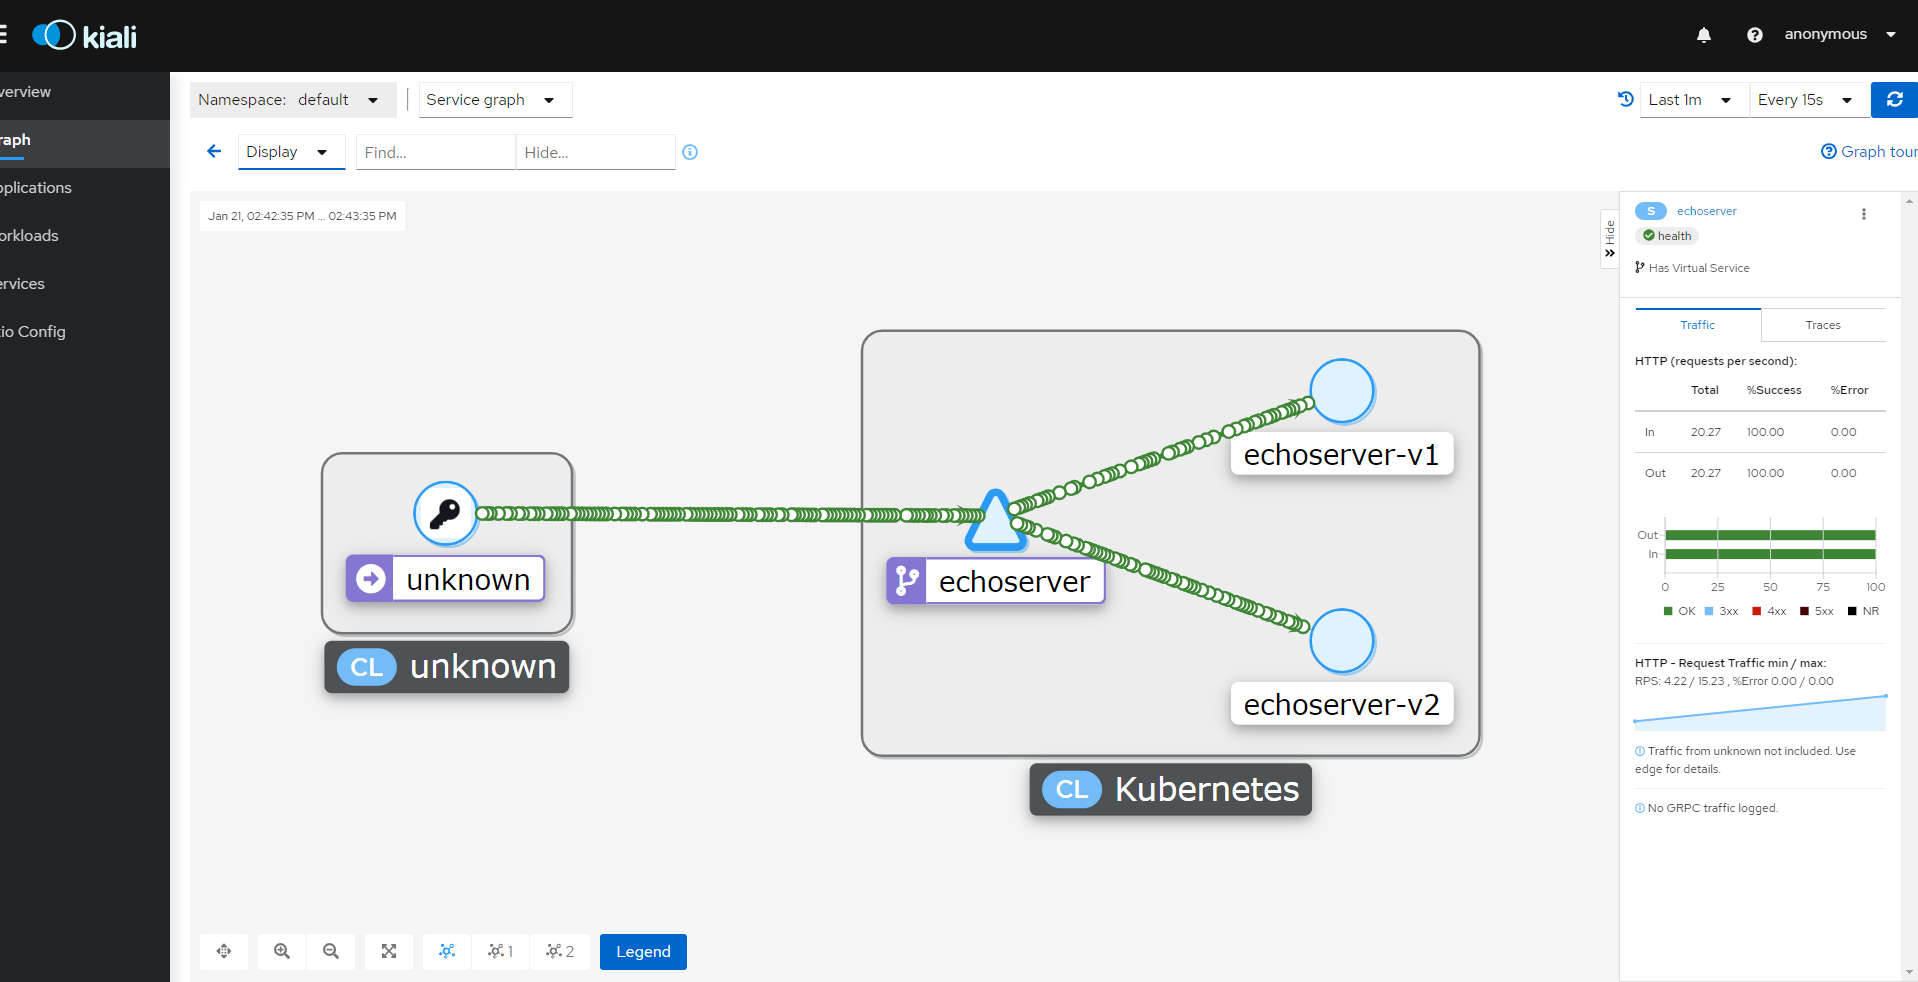
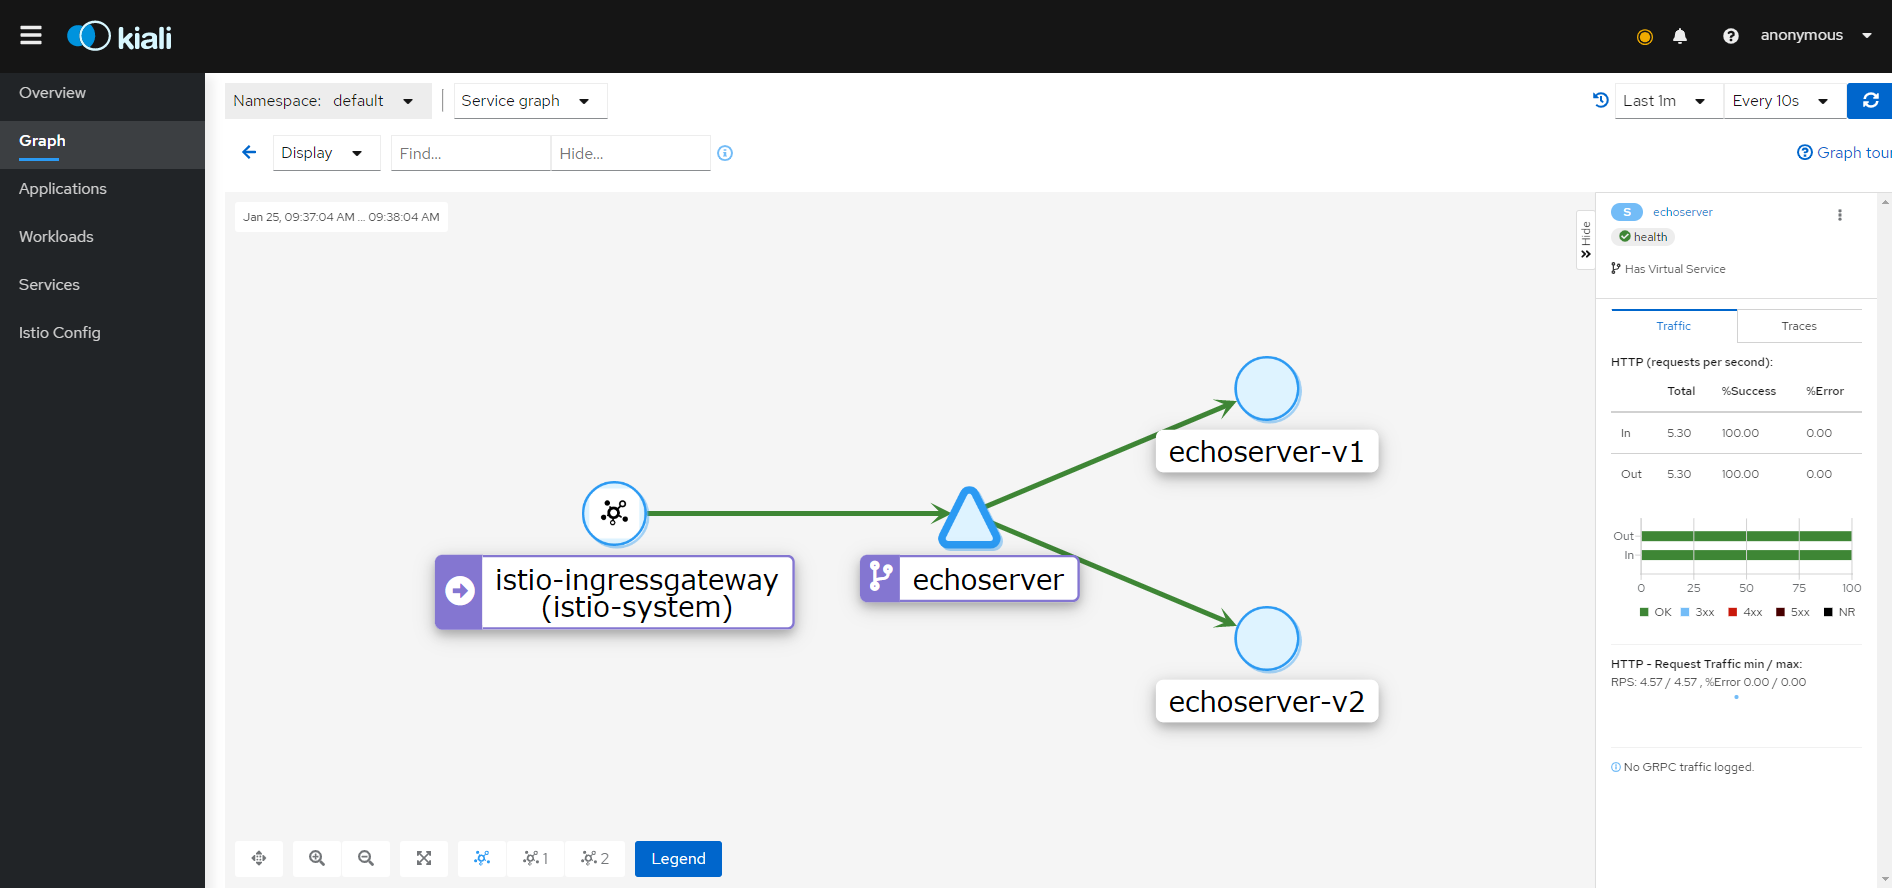
Homework №5 fix

diff --git a/README.md b/README.md
@@ -1,8 +1,17 @@
 Разворачиваем две версии приложения echoserver:
 kubectl apply -f app/echoserver.yaml
 
-Создаём нагрузку:
-kubectl apply -f app/load.yaml
+Получаем URL на который будем стучаться:
+minikube service -n istio-system istio-ingressgateway
+|--------------|----------------------|-------------------|----------------------------|
+|  NAMESPACE   |         NAME         |    TARGET PORT    |            URL             |
+|--------------|----------------------|-------------------|----------------------------|
+| istio-system | istio-ingressgateway | status-port/15021 | http://172.17.129.88:31616 |
+|              |                      | http2/80          | http://172.17.129.88:31079 |
+|              |                      | https/443         | http://172.17.129.88:31552 |
+|--------------|----------------------|-------------------|----------------------------|
+
+Создаём нагрузку на http://172.17.129.88:31079
 
 Результат:
 kiali-graph.png
